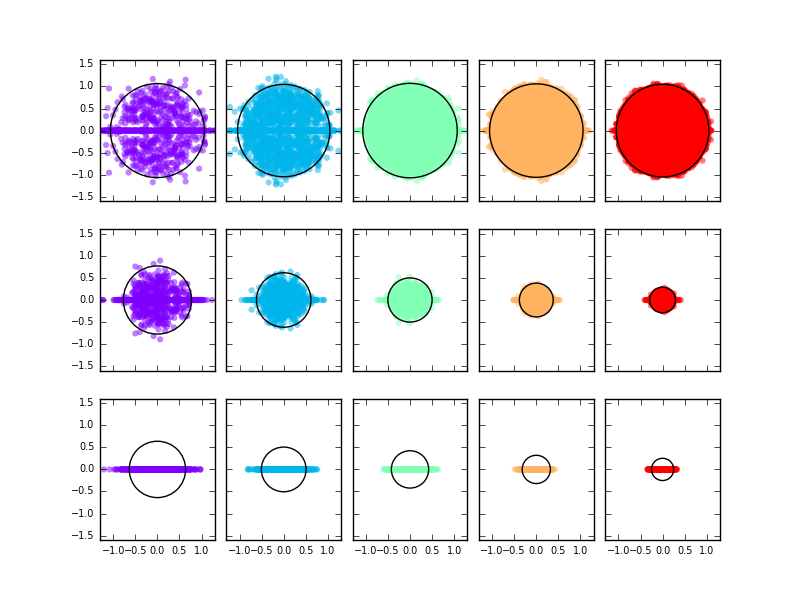
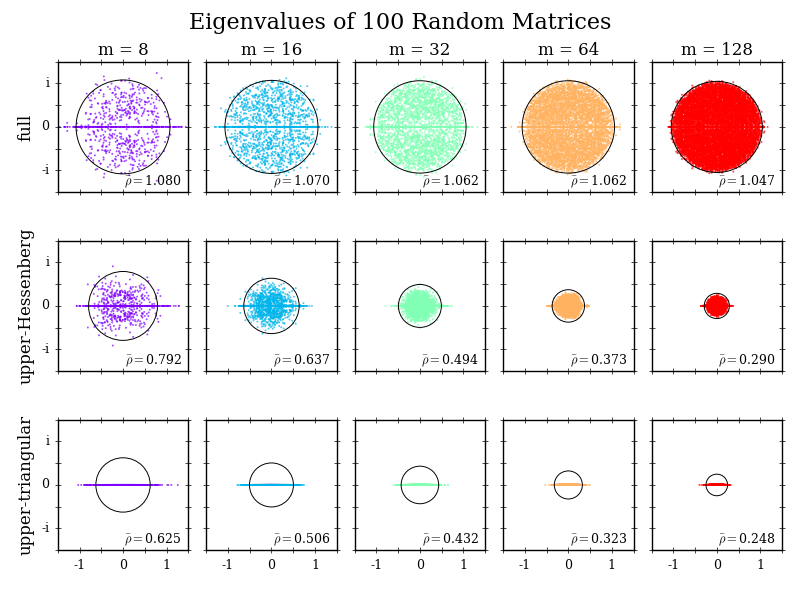
eigenvalue plots done

Changed region(s): [[0.0, 0.0, 1.0, 0.63], [0.0, 0.66, 1.0, 0.93]]

diff --git a/homework5/analyzer.py b/homework5/analyzer.py
@@ -4,8 +4,10 @@ import numpy as np
 from numpy import array, dot, diag
 from randmat import RandomMatrix
 
+import matplotlib
 import matplotlib.pyplot as plt
 import matplotlib.cm as cm
+matplotlib.rcParams['font.family'] = "serif"
 
 
 class Analyzer:
@@ -18,76 +20,75 @@ class Analyzer:
 
 	def random_samples(self, m, N):
 
-		# construct lists of N random matrices with elements
-		# below kth lower diagonal is zero
+		# construct lists of N random matrices with zeros below kth subdiagonal
 		full_randmats = [RandomMatrix(m,-m+1) for i in range(N)]
-		part_randmats = [RandomMatrix(m,-1) for i in range(N)]
+		hess_randmats = [RandomMatrix(m,-1) for i in range(N)]
 		tri_randmats = [RandomMatrix(m,0) for i in range(N)]
 
 		# construct matrices of eigenvalues
 		full_eig_real = np.zeros((N,m))
 		full_eig_imag = np.zeros((N,m))
-		part_eig_real = np.zeros((N,m))
-		part_eig_imag = np.zeros((N,m))
+		hess_eig_real = np.zeros((N,m))
+		hess_eig_imag = np.zeros((N,m))
 		tri_eig_real = np.zeros((N,m))
 		tri_eig_imag = np.zeros((N,m))
 
 		for i in range(N):
 			full_eig_real[i] = full_randmats[i].eigvals.real
 			full_eig_imag[i] = full_randmats[i].eigvals.imag
-			part_eig_real[i] = part_randmats[i].eigvals.real
-			part_eig_imag[i] = part_randmats[i].eigvals.imag
+			hess_eig_real[i] = hess_randmats[i].eigvals.real
+			hess_eig_imag[i] = hess_randmats[i].eigvals.imag
 			tri_eig_real[i] = tri_randmats[i].eigvals.real
 			tri_eig_imag[i] = tri_randmats[i].eigvals.imag
 
 		# reshape into vectors
 		full_eig_real.reshape(-1)
 		full_eig_imag.reshape(-1)
-		part_eig_real.reshape(-1)
-		part_eig_imag.reshape(-1)
+		hess_eig_real.reshape(-1)
+		hess_eig_imag.reshape(-1)
 		tri_eig_real.reshape(-1)
 		tri_eig_imag.reshape(-1)
 
 		# store average norm for each batch of samples
 		full_norm = [full_randmats[i].norm for i in range(N)]
-		part_norm = [part_randmats[i].norm for i in range(N)]
+		hess_norm = [hess_randmats[i].norm for i in range(N)]
 		tri_norm = [tri_randmats[i].norm for i in range(N)]
 		full_norm_avg = np.mean(full_norm)
 		full_norm_std = np.std(full_norm)
-		part_norm_avg = np.mean(part_norm)
-		part_norm_std = np.std(part_norm)
+		hess_norm_avg = np.mean(hess_norm)
+		hess_norm_std = np.std(hess_norm)
 		tri_norm_avg = np.mean(tri_norm)
 		tri_norm_std = np.std(tri_norm)
 
 		# store average spectral radius for each batch of samples
 		full_rho = [full_randmats[i].rho for i in range(N)]
-		part_rho = [part_randmats[i].rho for i in range(N)]
+		hess_rho = [hess_randmats[i].rho for i in range(N)]
 		tri_rho = [tri_randmats[i].rho for i in range(N)]
 		full_rho_avg = np.mean(full_rho)
 		full_rho_std = np.std(full_rho)
-		part_rho_avg = np.mean(part_rho)
-		part_rho_std = np.std(part_rho)
+		hess_rho_avg = np.mean(hess_rho)
+		hess_rho_std = np.std(hess_rho)
 		tri_rho_avg = np.mean(tri_rho)
 		tri_rho_std = np.std(tri_rho)
 
 		# store average sigma_min for each batch of samples
 		full_sigma_min = [full_randmats[i].sigma_min for i in range(N)]
-		part_sigma_min = [part_randmats[i].sigma_min for i in range(N)]
+		hess_sigma_min = [hess_randmats[i].sigma_min for i in range(N)]
 		tri_sigma_min = [tri_randmats[i].sigma_min for i in range(N)]
 		full_sigma_min_avg = np.mean(full_sigma_min)
 		full_sigma_min_std = np.std(full_sigma_min)
-		part_sigma_min_avg = np.mean(part_sigma_min)
-		part_sigma_min_std = np.std(part_sigma_min)
+		hess_sigma_min_avg = np.mean(hess_sigma_min)
+		hess_sigma_min_std = np.std(hess_sigma_min)
 		tri_sigma_min_avg = np.mean(tri_sigma_min)
 		tri_sigma_min_std = np.std(tri_sigma_min)
 
 		print("{:>4s}{:<3d}".format("m = ",m))
 		print("{:<7s}{:^10s}{:^15.7f}{:^15.7f}{:^15.7f}{:^15.7f}{:^15.7f}{:^15.7f}".format(" ","full",full_rho_avg,full_rho_std,full_norm_avg,full_norm_std,full_sigma_min_avg,full_sigma_min_std))
-		print("{:<7s}{:^10s}{:^15.7f}{:^15.7f}{:^15.7f}{:^15.7f}{:^15.7f}{:^15.7f}".format(" ","part",part_rho_avg,part_rho_std,part_norm_avg,part_norm_std,part_sigma_min_avg,part_sigma_min_std))
+		print("{:<7s}{:^10s}{:^15.7f}{:^15.7f}{:^15.7f}{:^15.7f}{:^15.7f}{:^15.7f}".format(" ","hess",hess_rho_avg,hess_rho_std,hess_norm_avg,hess_norm_std,hess_sigma_min_avg,hess_sigma_min_std))
 		print("{:<7s}{:^10s}{:^15.7f}{:^15.7f}{:^15.7f}{:^15.7f}{:^15.7f}{:^15.7f}".format(" ","tri",tri_rho_avg,tri_rho_std,tri_norm_avg,tri_norm_std,tri_sigma_min_avg,tri_sigma_min_std))
 
-		return full_eig_real, full_eig_imag, part_eig_real, part_eig_imag, tri_eig_real, tri_eig_imag, \
-			   full_rho_avg, part_rho_avg, tri_rho_avg
+		return full_eig_real, full_eig_imag, hess_eig_real, hess_eig_imag, tri_eig_real, tri_eig_imag, \
+			   full_rho_avg, hess_rho_avg, tri_rho_avg
 
 
 
@@ -101,7 +102,11 @@ class Analyzer:
 
 		# make plot
 		fig, ax = plt.subplots(3, M, sharex=True, sharey=True)
-		xymin, xymax = -1.3, 1.3
+		matplotlib.rcParams['axes.unicode_minus'] = False
+		xlabels = [' ',-1,' ',0,' ',1,' ']
+		ylabels = [' ','-i',' ',0,' ','i',' ']
+		xymin, xymax = -1.5, 1.5
+
 
 		# overlay eigenvalues for various m
 		for m in self.m_list:
@@ -109,24 +114,38 @@ class Analyzer:
 			# get index of m
 			j = self.m_list.index(m)
 
-			# take N samples eigenvalues of mxm full, partially triangular, and triangular random matrices
+			# take N samples eigenvalues of mxm full, hessially triangular, and triangular random matrices
 			data = self.random_samples(m, N)
 			avg_rhos = data[-3:]
+
+			# title
+			ax[0,j].set_title('m = '+str(m),fontsize=12)
 
 			# superimpose eigenvalues N samples and spectral radii
 			for i in range(3):
 
-				ax[i,j].tick_params(axis='both', labelsize=7)
 				ax[i,j].set_xlim([xymin,xymax])
 				ax[i,j].set_ylim([xymin,xymax])
-				ax[i,j].scatter(data[2*i], data[2*i+1], c=colors[j], marker='o', edgecolor='none', alpha=0.5)
+				ax[i,j].set_xticklabels(xlabels)
+				ax[i,j].set_yticklabels(ylabels)
+				ax[i,j].tick_params(axis='both', labelsize=9, direction='inout', length=4.0)
+				ax[i,j].scatter(data[2*i], data[2*i+1], c=colors[j], marker='o', s=2.0, edgecolor='none', alpha=0.7)
 
-				rho = plt.Circle((0,0), avg_rhos[i], edgecolor='k', fill=False, linewidth=1.0)
+				rho = plt.Circle((0,0), avg_rhos[i], edgecolor='k', fill=False, linewidth=0.7)
 				ax[i,j].add_patch(rho)
+				ax[i,j].text(1.35,-1.35,r'$\bar{\rho}=$'+"{:.3f}".format(avg_rhos[i]), fontsize=9, ha='right')
 				ax[i,j].set_aspect('equal')
+				ax[i,j].set_adjustable('box-forced')
 
 
-		plt.subplots_adjust(hspace=0.2, wspace=0.1)
+
+		ax[0,0].set_ylabel('full',fontsize=12)
+		ax[1,0].set_ylabel('upper-Hessenberg',fontsize=12)
+		ax[2,0].set_ylabel('upper-triangular',fontsize=12)
+		fig.suptitle('Eigenvalues of '+str(N)+' Random Matrices', fontsize=16, va='top')
+		plt.tight_layout(rect=[0, 0.03, 1, 0.95])
+
+		# save and open
 		figname = 'eigenvalues_N'+str(N)+'.png'
 		plt.savefig(figname, format='png')
 		os.system('okular '+figname)
